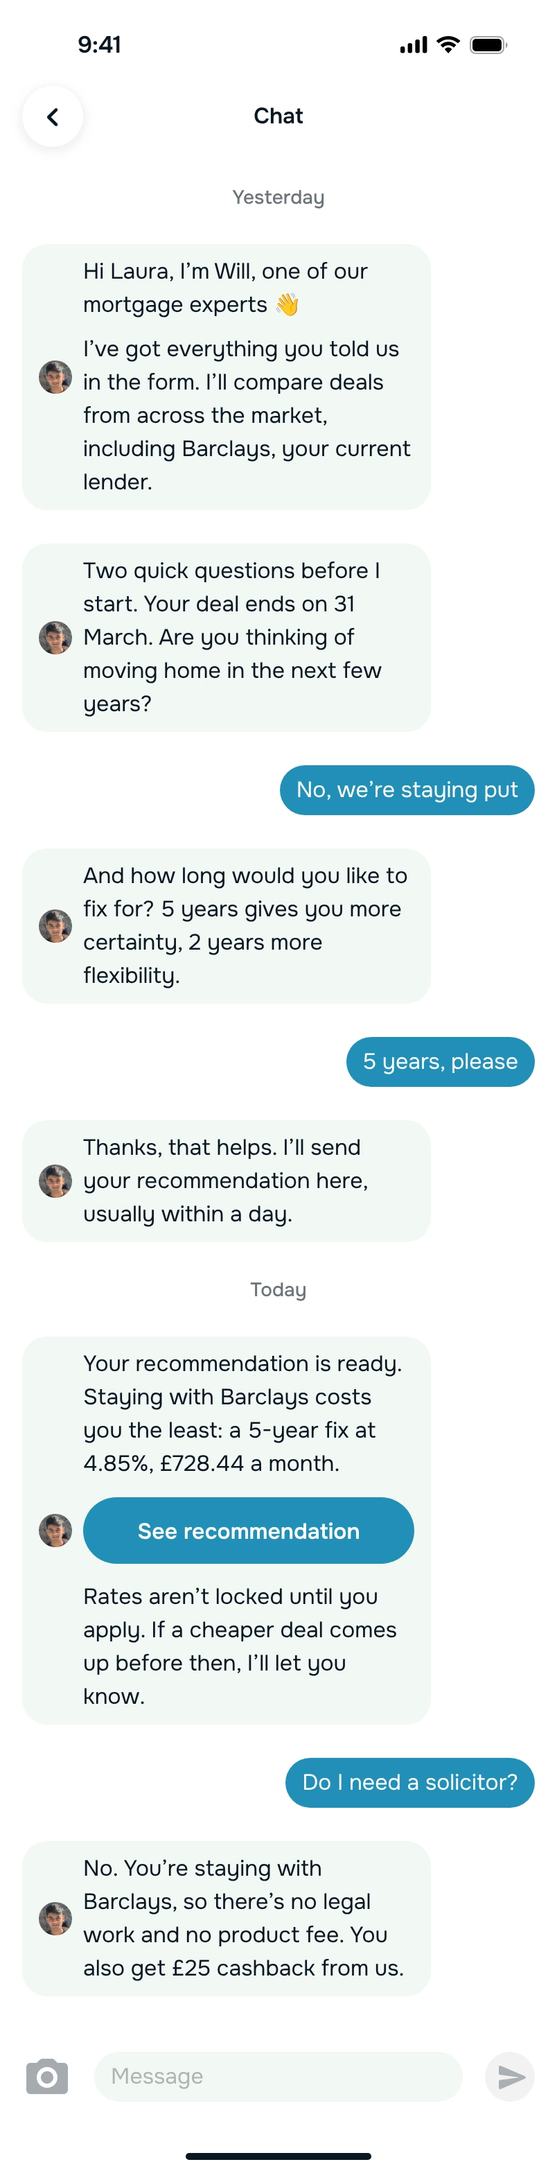
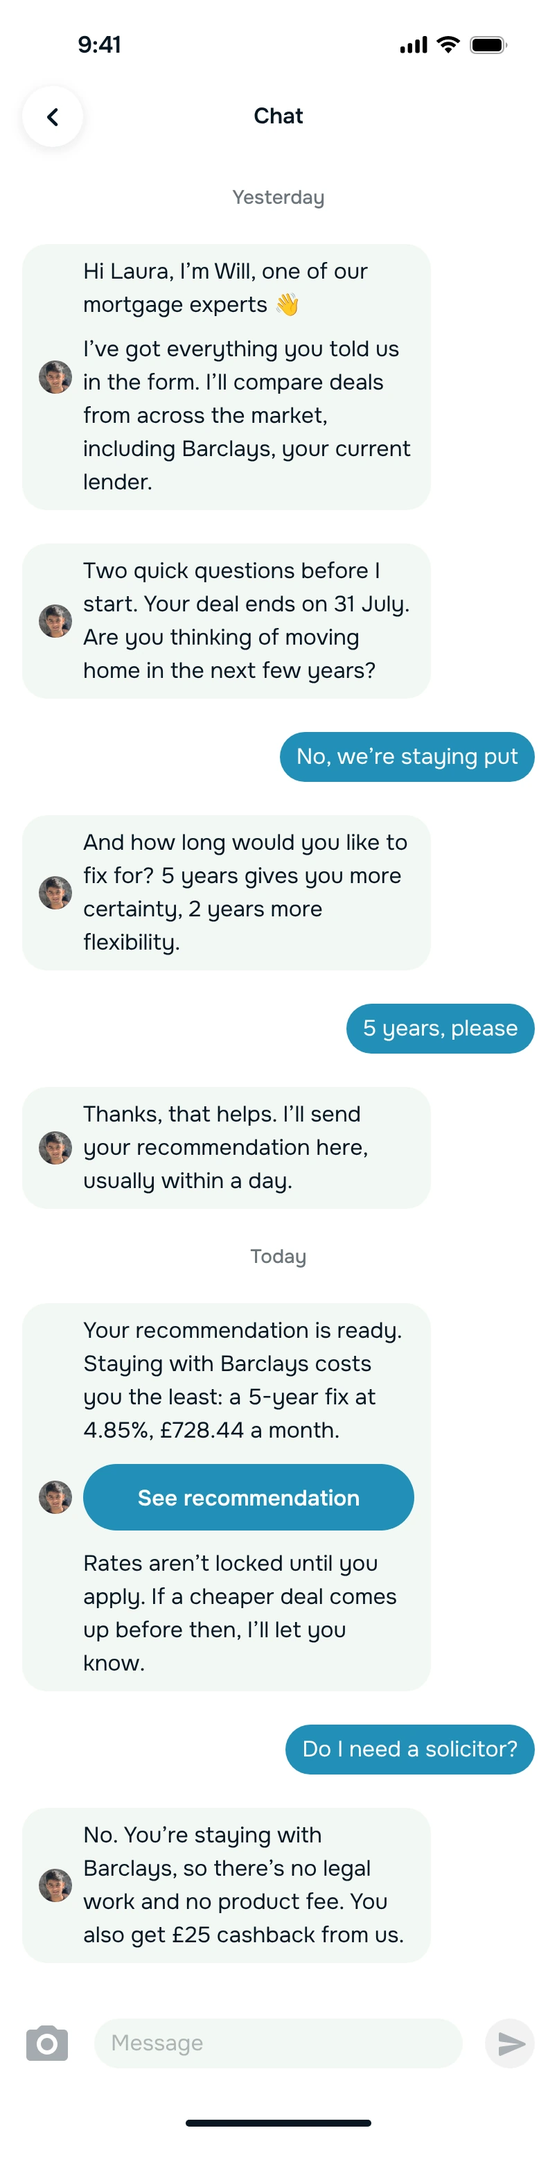
Remortgage deck: prototype button opens the Figma prototype, chat deal end matches the 6-month story
Claude-Session: https://claude.ai/code/session_019ui8k763ghSzq4U6arn5bM

diff --git a/remortgage-presentation/cleo-present.html b/remortgage-presentation/cleo-present.html
@@ -9,11 +9,11 @@
 <link rel="preconnect" href="https://fonts.googleapis.com">
 <link rel="preconnect" href="https://fonts.gstatic.com" crossorigin>
 <link href="https://fonts.googleapis.com/css2?family=DM+Sans:opsz,wght@9..40,400;9..40,500;9..40,600;9..40,700;9..40,800&family=Fragment+Mono&display=swap" rel="stylesheet">
-<link rel="stylesheet" href="styles.css?v=236">
-<link rel="stylesheet" href="deck.css?v=236">
-<link rel="stylesheet" href="monzo.css?v=236">
+<link rel="stylesheet" href="styles.css?v=237">
+<link rel="stylesheet" href="deck.css?v=237">
+<link rel="stylesheet" href="monzo.css?v=237">
 <link rel="preconnect" href="https://images.ctfassets.net">
-<script src="cleo-present.js?v=236" defer></script>
+<script src="cleo-present.js?v=237" defer></script>
 <style>
 body.present{--bar:52px;background:#112231;grid-template-rows:minmax(0,1fr) auto;height:100svh;min-height:0;overflow:hidden}
 .present .topbar,.present .slide-caption,.present .arrow,.present .notes-bottom,.present .notes-sheet{display:none!important}
@@ -282,7 +282,7 @@ body.present{--bar:52px;background:#112231;grid-template-rows:minmax(0,1fr) auto
 <section class="slide dark was-light" data-n="16" data-k="feb"><div class="eyebrow a mz-kicker">What’s next</div><h1 class="a" style="--d:1">The 2025 vision, designed end to end</h1>
 <style>.feb{display:flex;gap:14px;justify-content:center;align-items:flex-start;margin-top:34px}.feb-ph{margin:0;display:grid;gap:12px;justify-items:center;width:192px}.feb-ph figcaption{font-size:14.5px;line-height:1.35;color:var(--mz-soft);text-align:center}.feb-ph figcaption b{display:block;color:var(--mz-text);font-weight:700}.feb-st{position:absolute;right:84px;top:66px}.slide .fig-link.feb-try{background:#d8f16a!important;color:#112231!important;border-color:#d8f16a!important}.slide .fig-link.feb-try:hover{background:#fff!important;border-color:#fff!important}</style>
 <span class="opttag feb-st a" style="--d:2">Designed <b>Launch planned for February</b></span>
-<div class="feb"><figure class="feb-ph a" style="--d:3"><div class="bz" style="width:192px;padding:5px;border-radius:28.5px"><span class="bz-screen" style="border-radius:23.5px"><img class="ir-scroll" style="--t:-34.04%" src="assets/img/feb-intro.webp?v=2" alt="Find a mortgage with free advice from Monzo: how we’ll help, the lender panel and legal information"></span></div><figcaption><b>Free advice</b>from Monzo</figcaption></figure><figure class="feb-ph a" style="--d:4"><div class="bz" style="width:192px;padding:5px;border-radius:28.5px"><span class="bz-screen" style="border-radius:23.5px"><img src="assets/img/feb-form.webp?v=1" alt="Get started with your personal details: 10 questions pre-filled, 4 sections to go"></span></div><figcaption><b>Pre-filled</b>the form in the app</figcaption></figure><figure class="feb-ph a" style="--d:5"><div class="bz" style="width:192px;padding:5px;border-radius:28.5px"><span class="bz-screen" style="border-radius:23.5px"><img class="ir-scroll" style="--t:-44.19%" src="assets/img/feb-chat.webp?v=2" alt="Chat with your mortgage expert: two quick questions, then your recommendation arrives in the chat"></span></div><figcaption><b>Chat</b>with your expert</figcaption></figure><figure class="feb-ph a" style="--d:6"><div class="bz" style="width:192px;padding:5px;border-radius:28.5px"><span class="bz-screen" style="border-radius:23.5px"><img class="ir-scroll" style="--t:-17.47%" src="assets/img/feb-rec.webp?v=2" alt="Your recommendation: stay with Barclays on a 5-year fix at 4.85%, £728.44 a month, with the reasons and the deals ruled out"></span></div><figcaption><b>Recommendation</b>accept it in the app</figcaption></figure><figure class="feb-ph a" style="--d:7"><div class="bz" style="width:192px;padding:5px;border-radius:28.5px"><span class="bz-screen" style="border-radius:23.5px"><img src="assets/img/feb-docs.webp?v=3" alt="Documents needed by Barclays: ID, proof of address and payslips, uploaded from your phone"></span></div><figcaption><b>Documents</b>from your phone</figcaption></figure><figure class="feb-ph a" style="--d:8"><div class="bz" style="width:192px;padding:5px;border-radius:28.5px"><span class="bz-screen" style="border-radius:23.5px"><img class="ir-scroll" style="--t:-24.78%" src="assets/img/feb-track.webp?v=4" alt="Progress tracker: the Barclays offer has been accepted, 5 years fixed at 4.85% on £84,169"></span></div><figcaption><b>Tracker</b>until the offer is accepted</figcaption></figure><figure class="feb-ph a" style="--d:9"><div class="bz" style="width:192px;padding:5px;border-radius:28.5px"><span class="bz-screen" style="border-radius:23.5px"><img class="ir-scroll" style="--t:-15.56%" src="assets/img/feb-new.webp?v=4" alt="Is this your new mortgage? Barclays, £84,169, found through TransUnion: show it in Monzo, or say no"></span></div><figcaption><b>New mortgage</b>and the loop starts again</figcaption></figure></div><div class="a" style="--d:10;display:flex;justify-content:center;gap:12px;margin-top:20px"><a class="fig-link ghost feb-try" href="proto/journey.html?v=1" target="_blank" rel="noopener" style="margin-top:0">Try the prototype</a><a class="fig-link ghost" href="https://www.figma.com/design/oQN04sC3lBQqOXWWElvhAm/Regulatory-VOP-application?node-id=2334-8147" target="_blank" rel="noopener" style="margin-top:0">See the whole journey in Figma</a></div></section>
+<div class="feb"><figure class="feb-ph a" style="--d:3"><div class="bz" style="width:192px;padding:5px;border-radius:28.5px"><span class="bz-screen" style="border-radius:23.5px"><img class="ir-scroll" style="--t:-34.04%" src="assets/img/feb-intro.webp?v=2" alt="Find a mortgage with free advice from Monzo: how we’ll help, the lender panel and legal information"></span></div><figcaption><b>Free advice</b>from Monzo</figcaption></figure><figure class="feb-ph a" style="--d:4"><div class="bz" style="width:192px;padding:5px;border-radius:28.5px"><span class="bz-screen" style="border-radius:23.5px"><img src="assets/img/feb-form.webp?v=1" alt="Get started with your personal details: 10 questions pre-filled, 4 sections to go"></span></div><figcaption><b>Pre-filled</b>the form in the app</figcaption></figure><figure class="feb-ph a" style="--d:5"><div class="bz" style="width:192px;padding:5px;border-radius:28.5px"><span class="bz-screen" style="border-radius:23.5px"><img class="ir-scroll" style="--t:-44.19%" src="assets/img/feb-chat.webp?v=3" alt="Chat with your mortgage expert: two quick questions, then your recommendation arrives in the chat"></span></div><figcaption><b>Chat</b>with your expert</figcaption></figure><figure class="feb-ph a" style="--d:6"><div class="bz" style="width:192px;padding:5px;border-radius:28.5px"><span class="bz-screen" style="border-radius:23.5px"><img class="ir-scroll" style="--t:-17.47%" src="assets/img/feb-rec.webp?v=2" alt="Your recommendation: stay with Barclays on a 5-year fix at 4.85%, £728.44 a month, with the reasons and the deals ruled out"></span></div><figcaption><b>Recommendation</b>accept it in the app</figcaption></figure><figure class="feb-ph a" style="--d:7"><div class="bz" style="width:192px;padding:5px;border-radius:28.5px"><span class="bz-screen" style="border-radius:23.5px"><img src="assets/img/feb-docs.webp?v=3" alt="Documents needed by Barclays: ID, proof of address and payslips, uploaded from your phone"></span></div><figcaption><b>Documents</b>from your phone</figcaption></figure><figure class="feb-ph a" style="--d:8"><div class="bz" style="width:192px;padding:5px;border-radius:28.5px"><span class="bz-screen" style="border-radius:23.5px"><img class="ir-scroll" style="--t:-24.78%" src="assets/img/feb-track.webp?v=4" alt="Progress tracker: the Barclays offer has been accepted, 5 years fixed at 4.85% on £84,169"></span></div><figcaption><b>Tracker</b>until the offer is accepted</figcaption></figure><figure class="feb-ph a" style="--d:9"><div class="bz" style="width:192px;padding:5px;border-radius:28.5px"><span class="bz-screen" style="border-radius:23.5px"><img class="ir-scroll" style="--t:-15.56%" src="assets/img/feb-new.webp?v=4" alt="Is this your new mortgage? Barclays, £84,169, found through TransUnion: show it in Monzo, or say no"></span></div><figcaption><b>New mortgage</b>and the loop starts again</figcaption></figure></div><div class="a" style="--d:10;display:flex;justify-content:center;gap:12px;margin-top:20px"><a class="fig-link ghost feb-try" href="https://www.figma.com/proto/oQN04sC3lBQqOXWWElvhAm/Regulatory-VOP-application?page-id=2334%3A7463&amp;node-id=40000019-8882&amp;starting-point-node-id=40000019%3A8882&amp;scaling=scale-down&amp;content-scaling=fixed" target="_blank" rel="noopener" style="margin-top:0">Try the prototype in Figma</a><a class="fig-link ghost" href="https://www.figma.com/design/oQN04sC3lBQqOXWWElvhAm/Regulatory-VOP-application?node-id=2334-8147" target="_blank" rel="noopener" style="margin-top:0">See the whole journey in Figma</a></div></section>
 <section class="slide dark was-light" data-n="17" data-k="ai"><div class="eyebrow a mz-kicker">How I work</div><h1 class="a" style="--d:1">What if designers could check their screens against the rules before Compliance?</h1><p class="sub a" style="--d:2">I built a tool for that, and we used it inside Monzo</p>
 <div class="grid" style="grid-template-columns:400px 1fr;margin-top:26px;gap:30px;align-items:stretch">
   <div class="col ai-col" style="gap:14px">

diff --git a/remortgage-presentation/present.html b/remortgage-presentation/present.html
@@ -9,11 +9,11 @@
 <link rel="preconnect" href="https://fonts.googleapis.com">
 <link rel="preconnect" href="https://fonts.gstatic.com" crossorigin>
 <link href="https://fonts.googleapis.com/css2?family=DM+Sans:opsz,wght@9..40,400;9..40,500;9..40,600;9..40,700;9..40,800&family=Fragment+Mono&display=swap" rel="stylesheet">
-<link rel="stylesheet" href="styles.css?v=236">
-<link rel="stylesheet" href="deck.css?v=236">
-<link rel="stylesheet" href="monzo.css?v=236">
+<link rel="stylesheet" href="styles.css?v=237">
+<link rel="stylesheet" href="deck.css?v=237">
+<link rel="stylesheet" href="monzo.css?v=237">
 <link rel="preconnect" href="https://images.ctfassets.net">
-<script src="present.js?v=236" defer></script>
+<script src="present.js?v=237" defer></script>
 <style>
 body.present{--bar:52px;background:#112231;grid-template-rows:minmax(0,1fr) auto;height:100svh;min-height:0;overflow:hidden}
 .present .topbar,.present .slide-caption,.present .arrow,.present .notes-bottom,.present .notes-sheet{display:none!important}
@@ -387,7 +387,7 @@ body.present{--bar:52px;background:#112231;grid-template-rows:minmax(0,1fr) auto
 <section class="slide dark was-light" data-n="24" data-k="feb"><div class="eyebrow a mz-kicker">What’s next</div><h1 class="a" style="--d:1">The 2025 vision, designed end to end</h1>
 <style>.feb{display:flex;gap:14px;justify-content:center;align-items:flex-start;margin-top:34px}.feb-ph{margin:0;display:grid;gap:12px;justify-items:center;width:192px}.feb-ph figcaption{font-size:14.5px;line-height:1.35;color:var(--mz-soft);text-align:center}.feb-ph figcaption b{display:block;color:var(--mz-text);font-weight:700}.feb-st{position:absolute;right:84px;top:66px}.slide .fig-link.feb-try{background:#d8f16a!important;color:#112231!important;border-color:#d8f16a!important}.slide .fig-link.feb-try:hover{background:#fff!important;border-color:#fff!important}</style>
 <span class="opttag feb-st a" style="--d:2">Designed <b>Launch planned for February</b></span>
-<div class="feb"><figure class="feb-ph a" style="--d:3"><div class="bz" style="width:192px;padding:5px;border-radius:28.5px"><span class="bz-screen" style="border-radius:23.5px"><img class="ir-scroll" style="--t:-34.04%" src="assets/img/feb-intro.webp?v=2" alt="Find a mortgage with free advice from Monzo: how we’ll help, the lender panel and legal information"></span></div><figcaption><b>Free advice</b>from Monzo</figcaption></figure><figure class="feb-ph a" style="--d:4"><div class="bz" style="width:192px;padding:5px;border-radius:28.5px"><span class="bz-screen" style="border-radius:23.5px"><img src="assets/img/feb-form.webp?v=1" alt="Get started with your personal details: 10 questions pre-filled, 4 sections to go"></span></div><figcaption><b>Pre-filled</b>the form in the app</figcaption></figure><figure class="feb-ph a" style="--d:5"><div class="bz" style="width:192px;padding:5px;border-radius:28.5px"><span class="bz-screen" style="border-radius:23.5px"><img class="ir-scroll" style="--t:-44.19%" src="assets/img/feb-chat.webp?v=2" alt="Chat with your mortgage expert: two quick questions, then your recommendation arrives in the chat"></span></div><figcaption><b>Chat</b>with your expert</figcaption></figure><figure class="feb-ph a" style="--d:6"><div class="bz" style="width:192px;padding:5px;border-radius:28.5px"><span class="bz-screen" style="border-radius:23.5px"><img class="ir-scroll" style="--t:-17.47%" src="assets/img/feb-rec.webp?v=2" alt="Your recommendation: stay with Barclays on a 5-year fix at 4.85%, £728.44 a month, with the reasons and the deals ruled out"></span></div><figcaption><b>Recommendation</b>accept it in the app</figcaption></figure><figure class="feb-ph a" style="--d:7"><div class="bz" style="width:192px;padding:5px;border-radius:28.5px"><span class="bz-screen" style="border-radius:23.5px"><img src="assets/img/feb-docs.webp?v=3" alt="Documents needed by Barclays: ID, proof of address and payslips, uploaded from your phone"></span></div><figcaption><b>Documents</b>from your phone</figcaption></figure><figure class="feb-ph a" style="--d:8"><div class="bz" style="width:192px;padding:5px;border-radius:28.5px"><span class="bz-screen" style="border-radius:23.5px"><img class="ir-scroll" style="--t:-24.78%" src="assets/img/feb-track.webp?v=4" alt="Progress tracker: the Barclays offer has been accepted, 5 years fixed at 4.85% on £84,169"></span></div><figcaption><b>Tracker</b>until the offer is accepted</figcaption></figure><figure class="feb-ph a" style="--d:9"><div class="bz" style="width:192px;padding:5px;border-radius:28.5px"><span class="bz-screen" style="border-radius:23.5px"><img class="ir-scroll" style="--t:-15.56%" src="assets/img/feb-new.webp?v=4" alt="Is this your new mortgage? Barclays, £84,169, found through TransUnion: show it in Monzo, or say no"></span></div><figcaption><b>New mortgage</b>and the loop starts again</figcaption></figure></div><div class="a" style="--d:10;display:flex;justify-content:center;gap:12px;margin-top:20px"><a class="fig-link ghost feb-try" href="proto/journey.html?v=1" target="_blank" rel="noopener" style="margin-top:0">Try the prototype</a><a class="fig-link ghost" href="https://www.figma.com/design/oQN04sC3lBQqOXWWElvhAm/Regulatory-VOP-application?node-id=2334-8147" target="_blank" rel="noopener" style="margin-top:0">See the whole journey in Figma</a></div></section>
+<div class="feb"><figure class="feb-ph a" style="--d:3"><div class="bz" style="width:192px;padding:5px;border-radius:28.5px"><span class="bz-screen" style="border-radius:23.5px"><img class="ir-scroll" style="--t:-34.04%" src="assets/img/feb-intro.webp?v=2" alt="Find a mortgage with free advice from Monzo: how we’ll help, the lender panel and legal information"></span></div><figcaption><b>Free advice</b>from Monzo</figcaption></figure><figure class="feb-ph a" style="--d:4"><div class="bz" style="width:192px;padding:5px;border-radius:28.5px"><span class="bz-screen" style="border-radius:23.5px"><img src="assets/img/feb-form.webp?v=1" alt="Get started with your personal details: 10 questions pre-filled, 4 sections to go"></span></div><figcaption><b>Pre-filled</b>the form in the app</figcaption></figure><figure class="feb-ph a" style="--d:5"><div class="bz" style="width:192px;padding:5px;border-radius:28.5px"><span class="bz-screen" style="border-radius:23.5px"><img class="ir-scroll" style="--t:-44.19%" src="assets/img/feb-chat.webp?v=3" alt="Chat with your mortgage expert: two quick questions, then your recommendation arrives in the chat"></span></div><figcaption><b>Chat</b>with your expert</figcaption></figure><figure class="feb-ph a" style="--d:6"><div class="bz" style="width:192px;padding:5px;border-radius:28.5px"><span class="bz-screen" style="border-radius:23.5px"><img class="ir-scroll" style="--t:-17.47%" src="assets/img/feb-rec.webp?v=2" alt="Your recommendation: stay with Barclays on a 5-year fix at 4.85%, £728.44 a month, with the reasons and the deals ruled out"></span></div><figcaption><b>Recommendation</b>accept it in the app</figcaption></figure><figure class="feb-ph a" style="--d:7"><div class="bz" style="width:192px;padding:5px;border-radius:28.5px"><span class="bz-screen" style="border-radius:23.5px"><img src="assets/img/feb-docs.webp?v=3" alt="Documents needed by Barclays: ID, proof of address and payslips, uploaded from your phone"></span></div><figcaption><b>Documents</b>from your phone</figcaption></figure><figure class="feb-ph a" style="--d:8"><div class="bz" style="width:192px;padding:5px;border-radius:28.5px"><span class="bz-screen" style="border-radius:23.5px"><img class="ir-scroll" style="--t:-24.78%" src="assets/img/feb-track.webp?v=4" alt="Progress tracker: the Barclays offer has been accepted, 5 years fixed at 4.85% on £84,169"></span></div><figcaption><b>Tracker</b>until the offer is accepted</figcaption></figure><figure class="feb-ph a" style="--d:9"><div class="bz" style="width:192px;padding:5px;border-radius:28.5px"><span class="bz-screen" style="border-radius:23.5px"><img class="ir-scroll" style="--t:-15.56%" src="assets/img/feb-new.webp?v=4" alt="Is this your new mortgage? Barclays, £84,169, found through TransUnion: show it in Monzo, or say no"></span></div><figcaption><b>New mortgage</b>and the loop starts again</figcaption></figure></div><div class="a" style="--d:10;display:flex;justify-content:center;gap:12px;margin-top:20px"><a class="fig-link ghost feb-try" href="https://www.figma.com/proto/oQN04sC3lBQqOXWWElvhAm/Regulatory-VOP-application?page-id=2334%3A7463&amp;node-id=40000019-8882&amp;starting-point-node-id=40000019%3A8882&amp;scaling=scale-down&amp;content-scaling=fixed" target="_blank" rel="noopener" style="margin-top:0">Try the prototype in Figma</a><a class="fig-link ghost" href="https://www.figma.com/design/oQN04sC3lBQqOXWWElvhAm/Regulatory-VOP-application?node-id=2334-8147" target="_blank" rel="noopener" style="margin-top:0">See the whole journey in Figma</a></div></section>
 <section class="slide dark was-light" data-n="25" data-k="ai"><div class="eyebrow a mz-kicker">How I work</div><h1 class="a" style="--d:1">What if designers could check their screens against the rules before Compliance?</h1><p class="sub a" style="--d:2">I built a tool for that, and we used it inside Monzo</p>
 <div class="grid" style="grid-template-columns:400px 1fr;margin-top:26px;gap:30px;align-items:stretch">
   <div class="col ai-col" style="gap:14px">

diff --git a/remortgage-presentation/index.html b/remortgage-presentation/index.html
@@ -9,11 +9,11 @@
 <link rel="preconnect" href="https://fonts.googleapis.com">
 <link rel="preconnect" href="https://fonts.gstatic.com" crossorigin>
 <link href="https://fonts.googleapis.com/css2?family=DM+Sans:opsz,wght@9..40,400;9..40,500;9..40,600;9..40,700;9..40,800&family=Fragment+Mono&display=swap" rel="stylesheet">
-<link rel="stylesheet" href="styles.css?v=236">
-<link rel="stylesheet" href="deck.css?v=236">
-<link rel="stylesheet" href="monzo.css?v=236">
+<link rel="stylesheet" href="styles.css?v=237">
+<link rel="stylesheet" href="deck.css?v=237">
+<link rel="stylesheet" href="monzo.css?v=237">
 <link rel="preconnect" href="https://images.ctfassets.net">
-<script src="slides.js?v=236" defer></script>
+<script src="slides.js?v=237" defer></script>
 </head>
 <body>
 <header class="topbar">
@@ -375,7 +375,7 @@
 <section class="slide dark was-light" data-n="24" data-k="feb"><div class="eyebrow a mz-kicker">What’s next</div><h1 class="a" style="--d:1">The 2025 vision, designed end to end</h1>
 <style>.feb{display:flex;gap:14px;justify-content:center;align-items:flex-start;margin-top:34px}.feb-ph{margin:0;display:grid;gap:12px;justify-items:center;width:192px}.feb-ph figcaption{font-size:14.5px;line-height:1.35;color:var(--mz-soft);text-align:center}.feb-ph figcaption b{display:block;color:var(--mz-text);font-weight:700}.feb-st{position:absolute;right:84px;top:66px}.slide .fig-link.feb-try{background:#d8f16a!important;color:#112231!important;border-color:#d8f16a!important}.slide .fig-link.feb-try:hover{background:#fff!important;border-color:#fff!important}</style>
 <span class="opttag feb-st a" style="--d:2">Designed <b>Launch planned for February</b></span>
-<div class="feb"><figure class="feb-ph a" style="--d:3"><div class="bz" style="width:192px;padding:5px;border-radius:28.5px"><span class="bz-screen" style="border-radius:23.5px"><img class="ir-scroll" style="--t:-34.04%" src="assets/img/feb-intro.webp?v=2" alt="Find a mortgage with free advice from Monzo: how we’ll help, the lender panel and legal information"></span></div><figcaption><b>Free advice</b>from Monzo</figcaption></figure><figure class="feb-ph a" style="--d:4"><div class="bz" style="width:192px;padding:5px;border-radius:28.5px"><span class="bz-screen" style="border-radius:23.5px"><img src="assets/img/feb-form.webp?v=1" alt="Get started with your personal details: 10 questions pre-filled, 4 sections to go"></span></div><figcaption><b>Pre-filled</b>the form in the app</figcaption></figure><figure class="feb-ph a" style="--d:5"><div class="bz" style="width:192px;padding:5px;border-radius:28.5px"><span class="bz-screen" style="border-radius:23.5px"><img class="ir-scroll" style="--t:-44.19%" src="assets/img/feb-chat.webp?v=2" alt="Chat with your mortgage expert: two quick questions, then your recommendation arrives in the chat"></span></div><figcaption><b>Chat</b>with your expert</figcaption></figure><figure class="feb-ph a" style="--d:6"><div class="bz" style="width:192px;padding:5px;border-radius:28.5px"><span class="bz-screen" style="border-radius:23.5px"><img class="ir-scroll" style="--t:-17.47%" src="assets/img/feb-rec.webp?v=2" alt="Your recommendation: stay with Barclays on a 5-year fix at 4.85%, £728.44 a month, with the reasons and the deals ruled out"></span></div><figcaption><b>Recommendation</b>accept it in the app</figcaption></figure><figure class="feb-ph a" style="--d:7"><div class="bz" style="width:192px;padding:5px;border-radius:28.5px"><span class="bz-screen" style="border-radius:23.5px"><img src="assets/img/feb-docs.webp?v=3" alt="Documents needed by Barclays: ID, proof of address and payslips, uploaded from your phone"></span></div><figcaption><b>Documents</b>from your phone</figcaption></figure><figure class="feb-ph a" style="--d:8"><div class="bz" style="width:192px;padding:5px;border-radius:28.5px"><span class="bz-screen" style="border-radius:23.5px"><img class="ir-scroll" style="--t:-24.78%" src="assets/img/feb-track.webp?v=4" alt="Progress tracker: the Barclays offer has been accepted, 5 years fixed at 4.85% on £84,169"></span></div><figcaption><b>Tracker</b>until the offer is accepted</figcaption></figure><figure class="feb-ph a" style="--d:9"><div class="bz" style="width:192px;padding:5px;border-radius:28.5px"><span class="bz-screen" style="border-radius:23.5px"><img class="ir-scroll" style="--t:-15.56%" src="assets/img/feb-new.webp?v=4" alt="Is this your new mortgage? Barclays, £84,169, found through TransUnion: show it in Monzo, or say no"></span></div><figcaption><b>New mortgage</b>and the loop starts again</figcaption></figure></div><div class="a" style="--d:10;display:flex;justify-content:center;gap:12px;margin-top:20px"><a class="fig-link ghost feb-try" href="proto/journey.html?v=1" target="_blank" rel="noopener" style="margin-top:0">Try the prototype</a><a class="fig-link ghost" href="https://www.figma.com/design/oQN04sC3lBQqOXWWElvhAm/Regulatory-VOP-application?node-id=2334-8147" target="_blank" rel="noopener" style="margin-top:0">See the whole journey in Figma</a></div></section>
+<div class="feb"><figure class="feb-ph a" style="--d:3"><div class="bz" style="width:192px;padding:5px;border-radius:28.5px"><span class="bz-screen" style="border-radius:23.5px"><img class="ir-scroll" style="--t:-34.04%" src="assets/img/feb-intro.webp?v=2" alt="Find a mortgage with free advice from Monzo: how we’ll help, the lender panel and legal information"></span></div><figcaption><b>Free advice</b>from Monzo</figcaption></figure><figure class="feb-ph a" style="--d:4"><div class="bz" style="width:192px;padding:5px;border-radius:28.5px"><span class="bz-screen" style="border-radius:23.5px"><img src="assets/img/feb-form.webp?v=1" alt="Get started with your personal details: 10 questions pre-filled, 4 sections to go"></span></div><figcaption><b>Pre-filled</b>the form in the app</figcaption></figure><figure class="feb-ph a" style="--d:5"><div class="bz" style="width:192px;padding:5px;border-radius:28.5px"><span class="bz-screen" style="border-radius:23.5px"><img class="ir-scroll" style="--t:-44.19%" src="assets/img/feb-chat.webp?v=3" alt="Chat with your mortgage expert: two quick questions, then your recommendation arrives in the chat"></span></div><figcaption><b>Chat</b>with your expert</figcaption></figure><figure class="feb-ph a" style="--d:6"><div class="bz" style="width:192px;padding:5px;border-radius:28.5px"><span class="bz-screen" style="border-radius:23.5px"><img class="ir-scroll" style="--t:-17.47%" src="assets/img/feb-rec.webp?v=2" alt="Your recommendation: stay with Barclays on a 5-year fix at 4.85%, £728.44 a month, with the reasons and the deals ruled out"></span></div><figcaption><b>Recommendation</b>accept it in the app</figcaption></figure><figure class="feb-ph a" style="--d:7"><div class="bz" style="width:192px;padding:5px;border-radius:28.5px"><span class="bz-screen" style="border-radius:23.5px"><img src="assets/img/feb-docs.webp?v=3" alt="Documents needed by Barclays: ID, proof of address and payslips, uploaded from your phone"></span></div><figcaption><b>Documents</b>from your phone</figcaption></figure><figure class="feb-ph a" style="--d:8"><div class="bz" style="width:192px;padding:5px;border-radius:28.5px"><span class="bz-screen" style="border-radius:23.5px"><img class="ir-scroll" style="--t:-24.78%" src="assets/img/feb-track.webp?v=4" alt="Progress tracker: the Barclays offer has been accepted, 5 years fixed at 4.85% on £84,169"></span></div><figcaption><b>Tracker</b>until the offer is accepted</figcaption></figure><figure class="feb-ph a" style="--d:9"><div class="bz" style="width:192px;padding:5px;border-radius:28.5px"><span class="bz-screen" style="border-radius:23.5px"><img class="ir-scroll" style="--t:-15.56%" src="assets/img/feb-new.webp?v=4" alt="Is this your new mortgage? Barclays, £84,169, found through TransUnion: show it in Monzo, or say no"></span></div><figcaption><b>New mortgage</b>and the loop starts again</figcaption></figure></div><div class="a" style="--d:10;display:flex;justify-content:center;gap:12px;margin-top:20px"><a class="fig-link ghost feb-try" href="https://www.figma.com/proto/oQN04sC3lBQqOXWWElvhAm/Regulatory-VOP-application?page-id=2334%3A7463&amp;node-id=40000019-8882&amp;starting-point-node-id=40000019%3A8882&amp;scaling=scale-down&amp;content-scaling=fixed" target="_blank" rel="noopener" style="margin-top:0">Try the prototype in Figma</a><a class="fig-link ghost" href="https://www.figma.com/design/oQN04sC3lBQqOXWWElvhAm/Regulatory-VOP-application?node-id=2334-8147" target="_blank" rel="noopener" style="margin-top:0">See the whole journey in Figma</a></div></section>
 <section class="slide dark was-light" data-n="25" data-k="ai"><div class="eyebrow a mz-kicker">How I work</div><h1 class="a" style="--d:1">What if designers could check their screens against the rules before Compliance?</h1><p class="sub a" style="--d:2">I built a tool for that, and we used it inside Monzo</p>
 <div class="grid" style="grid-template-columns:400px 1fr;margin-top:26px;gap:30px;align-items:stretch">
   <div class="col ai-col" style="gap:14px">

diff --git a/remortgage-presentation/cleo.html b/remortgage-presentation/cleo.html
@@ -9,11 +9,11 @@
 <link rel="preconnect" href="https://fonts.googleapis.com">
 <link rel="preconnect" href="https://fonts.gstatic.com" crossorigin>
 <link href="https://fonts.googleapis.com/css2?family=DM+Sans:opsz,wght@9..40,400;9..40,500;9..40,600;9..40,700;9..40,800&family=Fragment+Mono&display=swap" rel="stylesheet">
-<link rel="stylesheet" href="styles.css?v=236">
-<link rel="stylesheet" href="deck.css?v=236">
-<link rel="stylesheet" href="monzo.css?v=236">
+<link rel="stylesheet" href="styles.css?v=237">
+<link rel="stylesheet" href="deck.css?v=237">
+<link rel="stylesheet" href="monzo.css?v=237">
 <link rel="preconnect" href="https://images.ctfassets.net">
-<script src="cleo.js?v=236" defer></script>
+<script src="cleo.js?v=237" defer></script>
 </head>
 <body>
 <header class="topbar">
@@ -270,7 +270,7 @@
 <section class="slide dark was-light" data-n="16" data-k="feb"><div class="eyebrow a mz-kicker">What’s next</div><h1 class="a" style="--d:1">The 2025 vision, designed end to end</h1>
 <style>.feb{display:flex;gap:14px;justify-content:center;align-items:flex-start;margin-top:34px}.feb-ph{margin:0;display:grid;gap:12px;justify-items:center;width:192px}.feb-ph figcaption{font-size:14.5px;line-height:1.35;color:var(--mz-soft);text-align:center}.feb-ph figcaption b{display:block;color:var(--mz-text);font-weight:700}.feb-st{position:absolute;right:84px;top:66px}.slide .fig-link.feb-try{background:#d8f16a!important;color:#112231!important;border-color:#d8f16a!important}.slide .fig-link.feb-try:hover{background:#fff!important;border-color:#fff!important}</style>
 <span class="opttag feb-st a" style="--d:2">Designed <b>Launch planned for February</b></span>
-<div class="feb"><figure class="feb-ph a" style="--d:3"><div class="bz" style="width:192px;padding:5px;border-radius:28.5px"><span class="bz-screen" style="border-radius:23.5px"><img class="ir-scroll" style="--t:-34.04%" src="assets/img/feb-intro.webp?v=2" alt="Find a mortgage with free advice from Monzo: how we’ll help, the lender panel and legal information"></span></div><figcaption><b>Free advice</b>from Monzo</figcaption></figure><figure class="feb-ph a" style="--d:4"><div class="bz" style="width:192px;padding:5px;border-radius:28.5px"><span class="bz-screen" style="border-radius:23.5px"><img src="assets/img/feb-form.webp?v=1" alt="Get started with your personal details: 10 questions pre-filled, 4 sections to go"></span></div><figcaption><b>Pre-filled</b>the form in the app</figcaption></figure><figure class="feb-ph a" style="--d:5"><div class="bz" style="width:192px;padding:5px;border-radius:28.5px"><span class="bz-screen" style="border-radius:23.5px"><img class="ir-scroll" style="--t:-44.19%" src="assets/img/feb-chat.webp?v=2" alt="Chat with your mortgage expert: two quick questions, then your recommendation arrives in the chat"></span></div><figcaption><b>Chat</b>with your expert</figcaption></figure><figure class="feb-ph a" style="--d:6"><div class="bz" style="width:192px;padding:5px;border-radius:28.5px"><span class="bz-screen" style="border-radius:23.5px"><img class="ir-scroll" style="--t:-17.47%" src="assets/img/feb-rec.webp?v=2" alt="Your recommendation: stay with Barclays on a 5-year fix at 4.85%, £728.44 a month, with the reasons and the deals ruled out"></span></div><figcaption><b>Recommendation</b>accept it in the app</figcaption></figure><figure class="feb-ph a" style="--d:7"><div class="bz" style="width:192px;padding:5px;border-radius:28.5px"><span class="bz-screen" style="border-radius:23.5px"><img src="assets/img/feb-docs.webp?v=3" alt="Documents needed by Barclays: ID, proof of address and payslips, uploaded from your phone"></span></div><figcaption><b>Documents</b>from your phone</figcaption></figure><figure class="feb-ph a" style="--d:8"><div class="bz" style="width:192px;padding:5px;border-radius:28.5px"><span class="bz-screen" style="border-radius:23.5px"><img class="ir-scroll" style="--t:-24.78%" src="assets/img/feb-track.webp?v=4" alt="Progress tracker: the Barclays offer has been accepted, 5 years fixed at 4.85% on £84,169"></span></div><figcaption><b>Tracker</b>until the offer is accepted</figcaption></figure><figure class="feb-ph a" style="--d:9"><div class="bz" style="width:192px;padding:5px;border-radius:28.5px"><span class="bz-screen" style="border-radius:23.5px"><img class="ir-scroll" style="--t:-15.56%" src="assets/img/feb-new.webp?v=4" alt="Is this your new mortgage? Barclays, £84,169, found through TransUnion: show it in Monzo, or say no"></span></div><figcaption><b>New mortgage</b>and the loop starts again</figcaption></figure></div><div class="a" style="--d:10;display:flex;justify-content:center;gap:12px;margin-top:20px"><a class="fig-link ghost feb-try" href="proto/journey.html?v=1" target="_blank" rel="noopener" style="margin-top:0">Try the prototype</a><a class="fig-link ghost" href="https://www.figma.com/design/oQN04sC3lBQqOXWWElvhAm/Regulatory-VOP-application?node-id=2334-8147" target="_blank" rel="noopener" style="margin-top:0">See the whole journey in Figma</a></div></section>
+<div class="feb"><figure class="feb-ph a" style="--d:3"><div class="bz" style="width:192px;padding:5px;border-radius:28.5px"><span class="bz-screen" style="border-radius:23.5px"><img class="ir-scroll" style="--t:-34.04%" src="assets/img/feb-intro.webp?v=2" alt="Find a mortgage with free advice from Monzo: how we’ll help, the lender panel and legal information"></span></div><figcaption><b>Free advice</b>from Monzo</figcaption></figure><figure class="feb-ph a" style="--d:4"><div class="bz" style="width:192px;padding:5px;border-radius:28.5px"><span class="bz-screen" style="border-radius:23.5px"><img src="assets/img/feb-form.webp?v=1" alt="Get started with your personal details: 10 questions pre-filled, 4 sections to go"></span></div><figcaption><b>Pre-filled</b>the form in the app</figcaption></figure><figure class="feb-ph a" style="--d:5"><div class="bz" style="width:192px;padding:5px;border-radius:28.5px"><span class="bz-screen" style="border-radius:23.5px"><img class="ir-scroll" style="--t:-44.19%" src="assets/img/feb-chat.webp?v=3" alt="Chat with your mortgage expert: two quick questions, then your recommendation arrives in the chat"></span></div><figcaption><b>Chat</b>with your expert</figcaption></figure><figure class="feb-ph a" style="--d:6"><div class="bz" style="width:192px;padding:5px;border-radius:28.5px"><span class="bz-screen" style="border-radius:23.5px"><img class="ir-scroll" style="--t:-17.47%" src="assets/img/feb-rec.webp?v=2" alt="Your recommendation: stay with Barclays on a 5-year fix at 4.85%, £728.44 a month, with the reasons and the deals ruled out"></span></div><figcaption><b>Recommendation</b>accept it in the app</figcaption></figure><figure class="feb-ph a" style="--d:7"><div class="bz" style="width:192px;padding:5px;border-radius:28.5px"><span class="bz-screen" style="border-radius:23.5px"><img src="assets/img/feb-docs.webp?v=3" alt="Documents needed by Barclays: ID, proof of address and payslips, uploaded from your phone"></span></div><figcaption><b>Documents</b>from your phone</figcaption></figure><figure class="feb-ph a" style="--d:8"><div class="bz" style="width:192px;padding:5px;border-radius:28.5px"><span class="bz-screen" style="border-radius:23.5px"><img class="ir-scroll" style="--t:-24.78%" src="assets/img/feb-track.webp?v=4" alt="Progress tracker: the Barclays offer has been accepted, 5 years fixed at 4.85% on £84,169"></span></div><figcaption><b>Tracker</b>until the offer is accepted</figcaption></figure><figure class="feb-ph a" style="--d:9"><div class="bz" style="width:192px;padding:5px;border-radius:28.5px"><span class="bz-screen" style="border-radius:23.5px"><img class="ir-scroll" style="--t:-15.56%" src="assets/img/feb-new.webp?v=4" alt="Is this your new mortgage? Barclays, £84,169, found through TransUnion: show it in Monzo, or say no"></span></div><figcaption><b>New mortgage</b>and the loop starts again</figcaption></figure></div><div class="a" style="--d:10;display:flex;justify-content:center;gap:12px;margin-top:20px"><a class="fig-link ghost feb-try" href="https://www.figma.com/proto/oQN04sC3lBQqOXWWElvhAm/Regulatory-VOP-application?page-id=2334%3A7463&amp;node-id=40000019-8882&amp;starting-point-node-id=40000019%3A8882&amp;scaling=scale-down&amp;content-scaling=fixed" target="_blank" rel="noopener" style="margin-top:0">Try the prototype in Figma</a><a class="fig-link ghost" href="https://www.figma.com/design/oQN04sC3lBQqOXWWElvhAm/Regulatory-VOP-application?node-id=2334-8147" target="_blank" rel="noopener" style="margin-top:0">See the whole journey in Figma</a></div></section>
 <section class="slide dark was-light" data-n="17" data-k="ai"><div class="eyebrow a mz-kicker">How I work</div><h1 class="a" style="--d:1">What if designers could check their screens against the rules before Compliance?</h1><p class="sub a" style="--d:2">I built a tool for that, and we used it inside Monzo</p>
 <div class="grid" style="grid-template-columns:400px 1fr;margin-top:26px;gap:30px;align-items:stretch">
   <div class="col ai-col" style="gap:14px">

diff --git a/remortgage-presentation/airalo-present.html b/remortgage-presentation/airalo-present.html
@@ -9,11 +9,11 @@
 <link rel="preconnect" href="https://fonts.googleapis.com">
 <link rel="preconnect" href="https://fonts.gstatic.com" crossorigin>
 <link href="https://fonts.googleapis.com/css2?family=DM+Sans:opsz,wght@9..40,400;9..40,500;9..40,600;9..40,700;9..40,800&family=Fragment+Mono&display=swap" rel="stylesheet">
-<link rel="stylesheet" href="styles.css?v=236">
-<link rel="stylesheet" href="deck.css?v=236">
-<link rel="stylesheet" href="monzo.css?v=236">
+<link rel="stylesheet" href="styles.css?v=237">
+<link rel="stylesheet" href="deck.css?v=237">
+<link rel="stylesheet" href="monzo.css?v=237">
 <link rel="preconnect" href="https://images.ctfassets.net">
-<script src="airalo-present.js?v=236" defer></script>
+<script src="airalo-present.js?v=237" defer></script>
 <style>
 body.present{--bar:52px;background:#112231;grid-template-rows:minmax(0,1fr) auto;height:100svh;min-height:0;overflow:hidden}
 .present .topbar,.present .slide-caption,.present .arrow,.present .notes-bottom,.present .notes-sheet{display:none!important}

diff --git a/remortgage-presentation/15min-present.html b/remortgage-presentation/15min-present.html
@@ -9,11 +9,11 @@
 <link rel="preconnect" href="https://fonts.googleapis.com">
 <link rel="preconnect" href="https://fonts.gstatic.com" crossorigin>
 <link href="https://fonts.googleapis.com/css2?family=DM+Sans:opsz,wght@9..40,400;9..40,500;9..40,600;9..40,700;9..40,800&family=Fragment+Mono&display=swap" rel="stylesheet">
-<link rel="stylesheet" href="styles.css?v=236">
-<link rel="stylesheet" href="deck.css?v=236">
-<link rel="stylesheet" href="monzo.css?v=236">
+<link rel="stylesheet" href="styles.css?v=237">
+<link rel="stylesheet" href="deck.css?v=237">
+<link rel="stylesheet" href="monzo.css?v=237">
 <link rel="preconnect" href="https://images.ctfassets.net">
-<script src="15min-present.js?v=236" defer></script>
+<script src="15min-present.js?v=237" defer></script>
 <style>
 body.present{--bar:52px;background:#112231;grid-template-rows:minmax(0,1fr) auto;height:100svh;min-height:0;overflow:hidden}
 .present .topbar,.present .slide-caption,.present .arrow,.present .notes-bottom,.present .notes-sheet{display:none!important}

diff --git a/remortgage-presentation/flex-present.html b/remortgage-presentation/flex-present.html
@@ -9,11 +9,11 @@
 <link rel="preconnect" href="https://fonts.googleapis.com">
 <link rel="preconnect" href="https://fonts.gstatic.com" crossorigin>
 <link href="https://fonts.googleapis.com/css2?family=DM+Sans:opsz,wght@9..40,400;9..40,500;9..40,600;9..40,700;9..40,800&family=Fragment+Mono&display=swap" rel="stylesheet">
-<link rel="stylesheet" href="styles.css?v=236">
-<link rel="stylesheet" href="deck.css?v=236">
-<link rel="stylesheet" href="monzo.css?v=236">
+<link rel="stylesheet" href="styles.css?v=237">
+<link rel="stylesheet" href="deck.css?v=237">
+<link rel="stylesheet" href="monzo.css?v=237">
 <link rel="preconnect" href="https://images.ctfassets.net">
-<script src="flex-present.js?v=236" defer></script>
+<script src="flex-present.js?v=237" defer></script>
 <style>
 body.present{--bar:52px;background:#112231;grid-template-rows:minmax(0,1fr) auto;height:100svh;min-height:0;overflow:hidden}
 .present .topbar,.present .slide-caption,.present .arrow,.present .notes-bottom,.present .notes-sheet{display:none!important}

diff --git a/remortgage-presentation/airalo.html b/remortgage-presentation/airalo.html
@@ -9,11 +9,11 @@
 <link rel="preconnect" href="https://fonts.googleapis.com">
 <link rel="preconnect" href="https://fonts.gstatic.com" crossorigin>
 <link href="https://fonts.googleapis.com/css2?family=DM+Sans:opsz,wght@9..40,400;9..40,500;9..40,600;9..40,700;9..40,800&family=Fragment+Mono&display=swap" rel="stylesheet">
-<link rel="stylesheet" href="styles.css?v=236">
-<link rel="stylesheet" href="deck.css?v=236">
-<link rel="stylesheet" href="monzo.css?v=236">
+<link rel="stylesheet" href="styles.css?v=237">
+<link rel="stylesheet" href="deck.css?v=237">
+<link rel="stylesheet" href="monzo.css?v=237">
 <link rel="preconnect" href="https://images.ctfassets.net">
-<script src="airalo.js?v=236" defer></script>
+<script src="airalo.js?v=237" defer></script>
 </head>
 <body>
 <header class="topbar">

diff --git a/remortgage-presentation/15min.html b/remortgage-presentation/15min.html
@@ -9,11 +9,11 @@
 <link rel="preconnect" href="https://fonts.googleapis.com">
 <link rel="preconnect" href="https://fonts.gstatic.com" crossorigin>
 <link href="https://fonts.googleapis.com/css2?family=DM+Sans:opsz,wght@9..40,400;9..40,500;9..40,600;9..40,700;9..40,800&family=Fragment+Mono&display=swap" rel="stylesheet">
-<link rel="stylesheet" href="styles.css?v=236">
-<link rel="stylesheet" href="deck.css?v=236">
-<link rel="stylesheet" href="monzo.css?v=236">
+<link rel="stylesheet" href="styles.css?v=237">
+<link rel="stylesheet" href="deck.css?v=237">
+<link rel="stylesheet" href="monzo.css?v=237">
 <link rel="preconnect" href="https://images.ctfassets.net">
-<script src="15min.js?v=236" defer></script>
+<script src="15min.js?v=237" defer></script>
 </head>
 <body>
 <header class="topbar">

diff --git a/remortgage-presentation/flex.html b/remortgage-presentation/flex.html
@@ -9,11 +9,11 @@
 <link rel="preconnect" href="https://fonts.googleapis.com">
 <link rel="preconnect" href="https://fonts.gstatic.com" crossorigin>
 <link href="https://fonts.googleapis.com/css2?family=DM+Sans:opsz,wght@9..40,400;9..40,500;9..40,600;9..40,700;9..40,800&family=Fragment+Mono&display=swap" rel="stylesheet">
-<link rel="stylesheet" href="styles.css?v=236">
-<link rel="stylesheet" href="deck.css?v=236">
-<link rel="stylesheet" href="monzo.css?v=236">
+<link rel="stylesheet" href="styles.css?v=237">
+<link rel="stylesheet" href="deck.css?v=237">
+<link rel="stylesheet" href="monzo.css?v=237">
 <link rel="preconnect" href="https://images.ctfassets.net">
-<script src="flex.js?v=236" defer></script>
+<script src="flex.js?v=237" defer></script>
 </head>
 <body>
 <header class="topbar">
